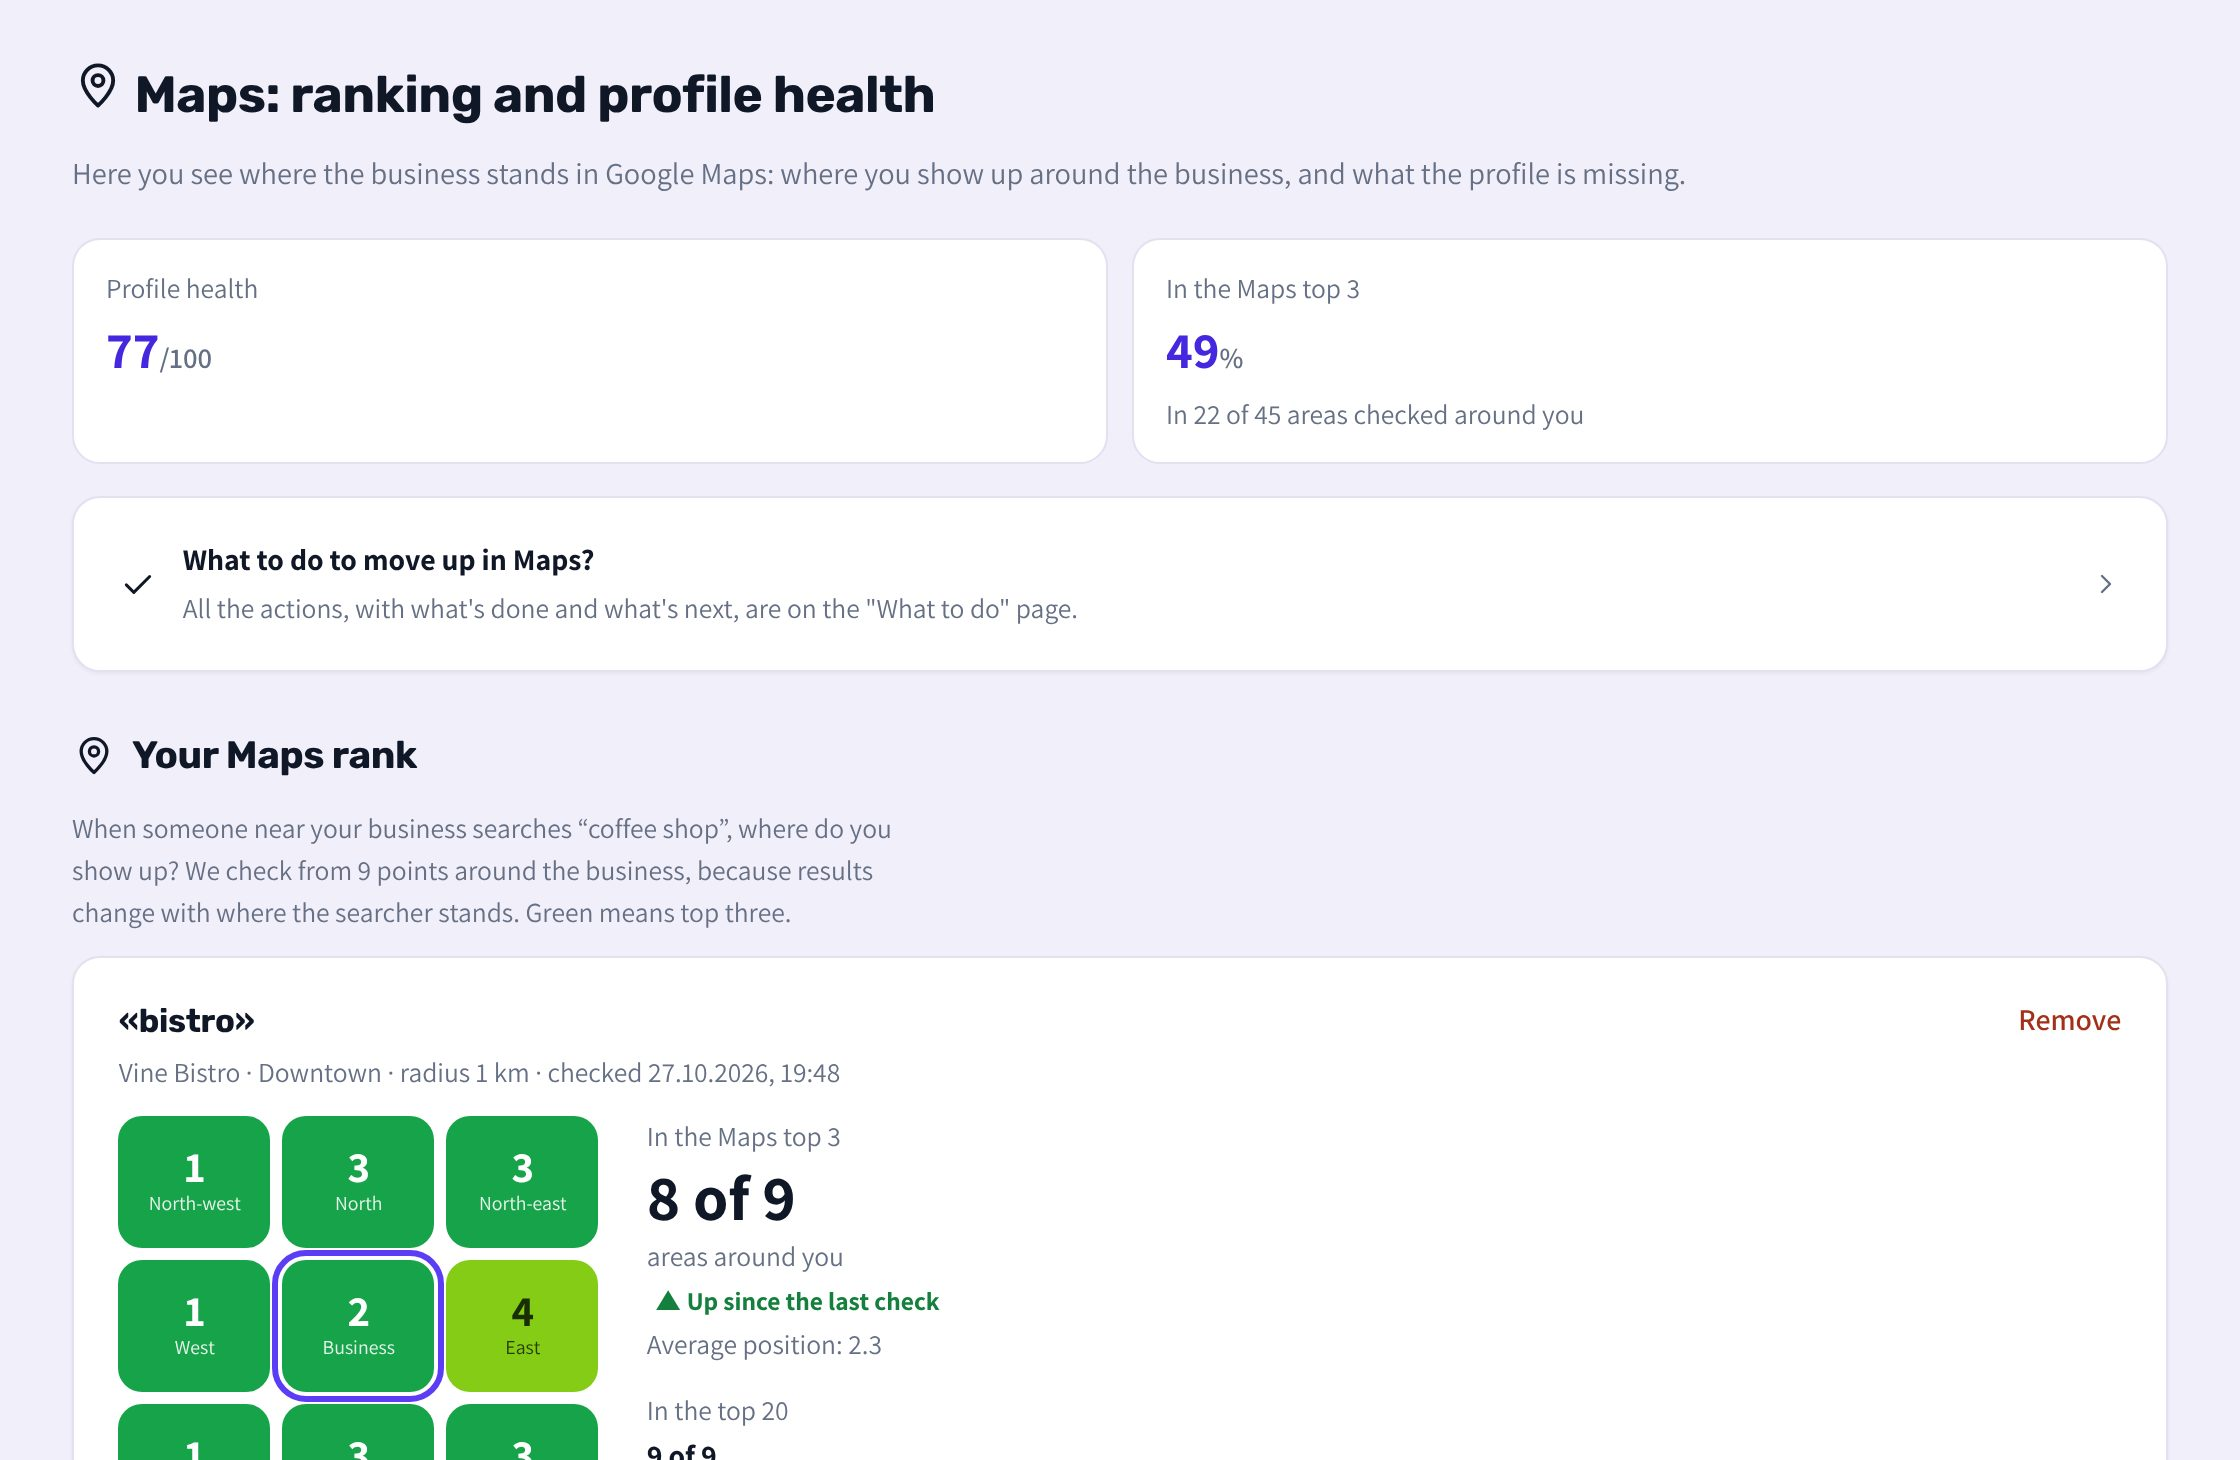
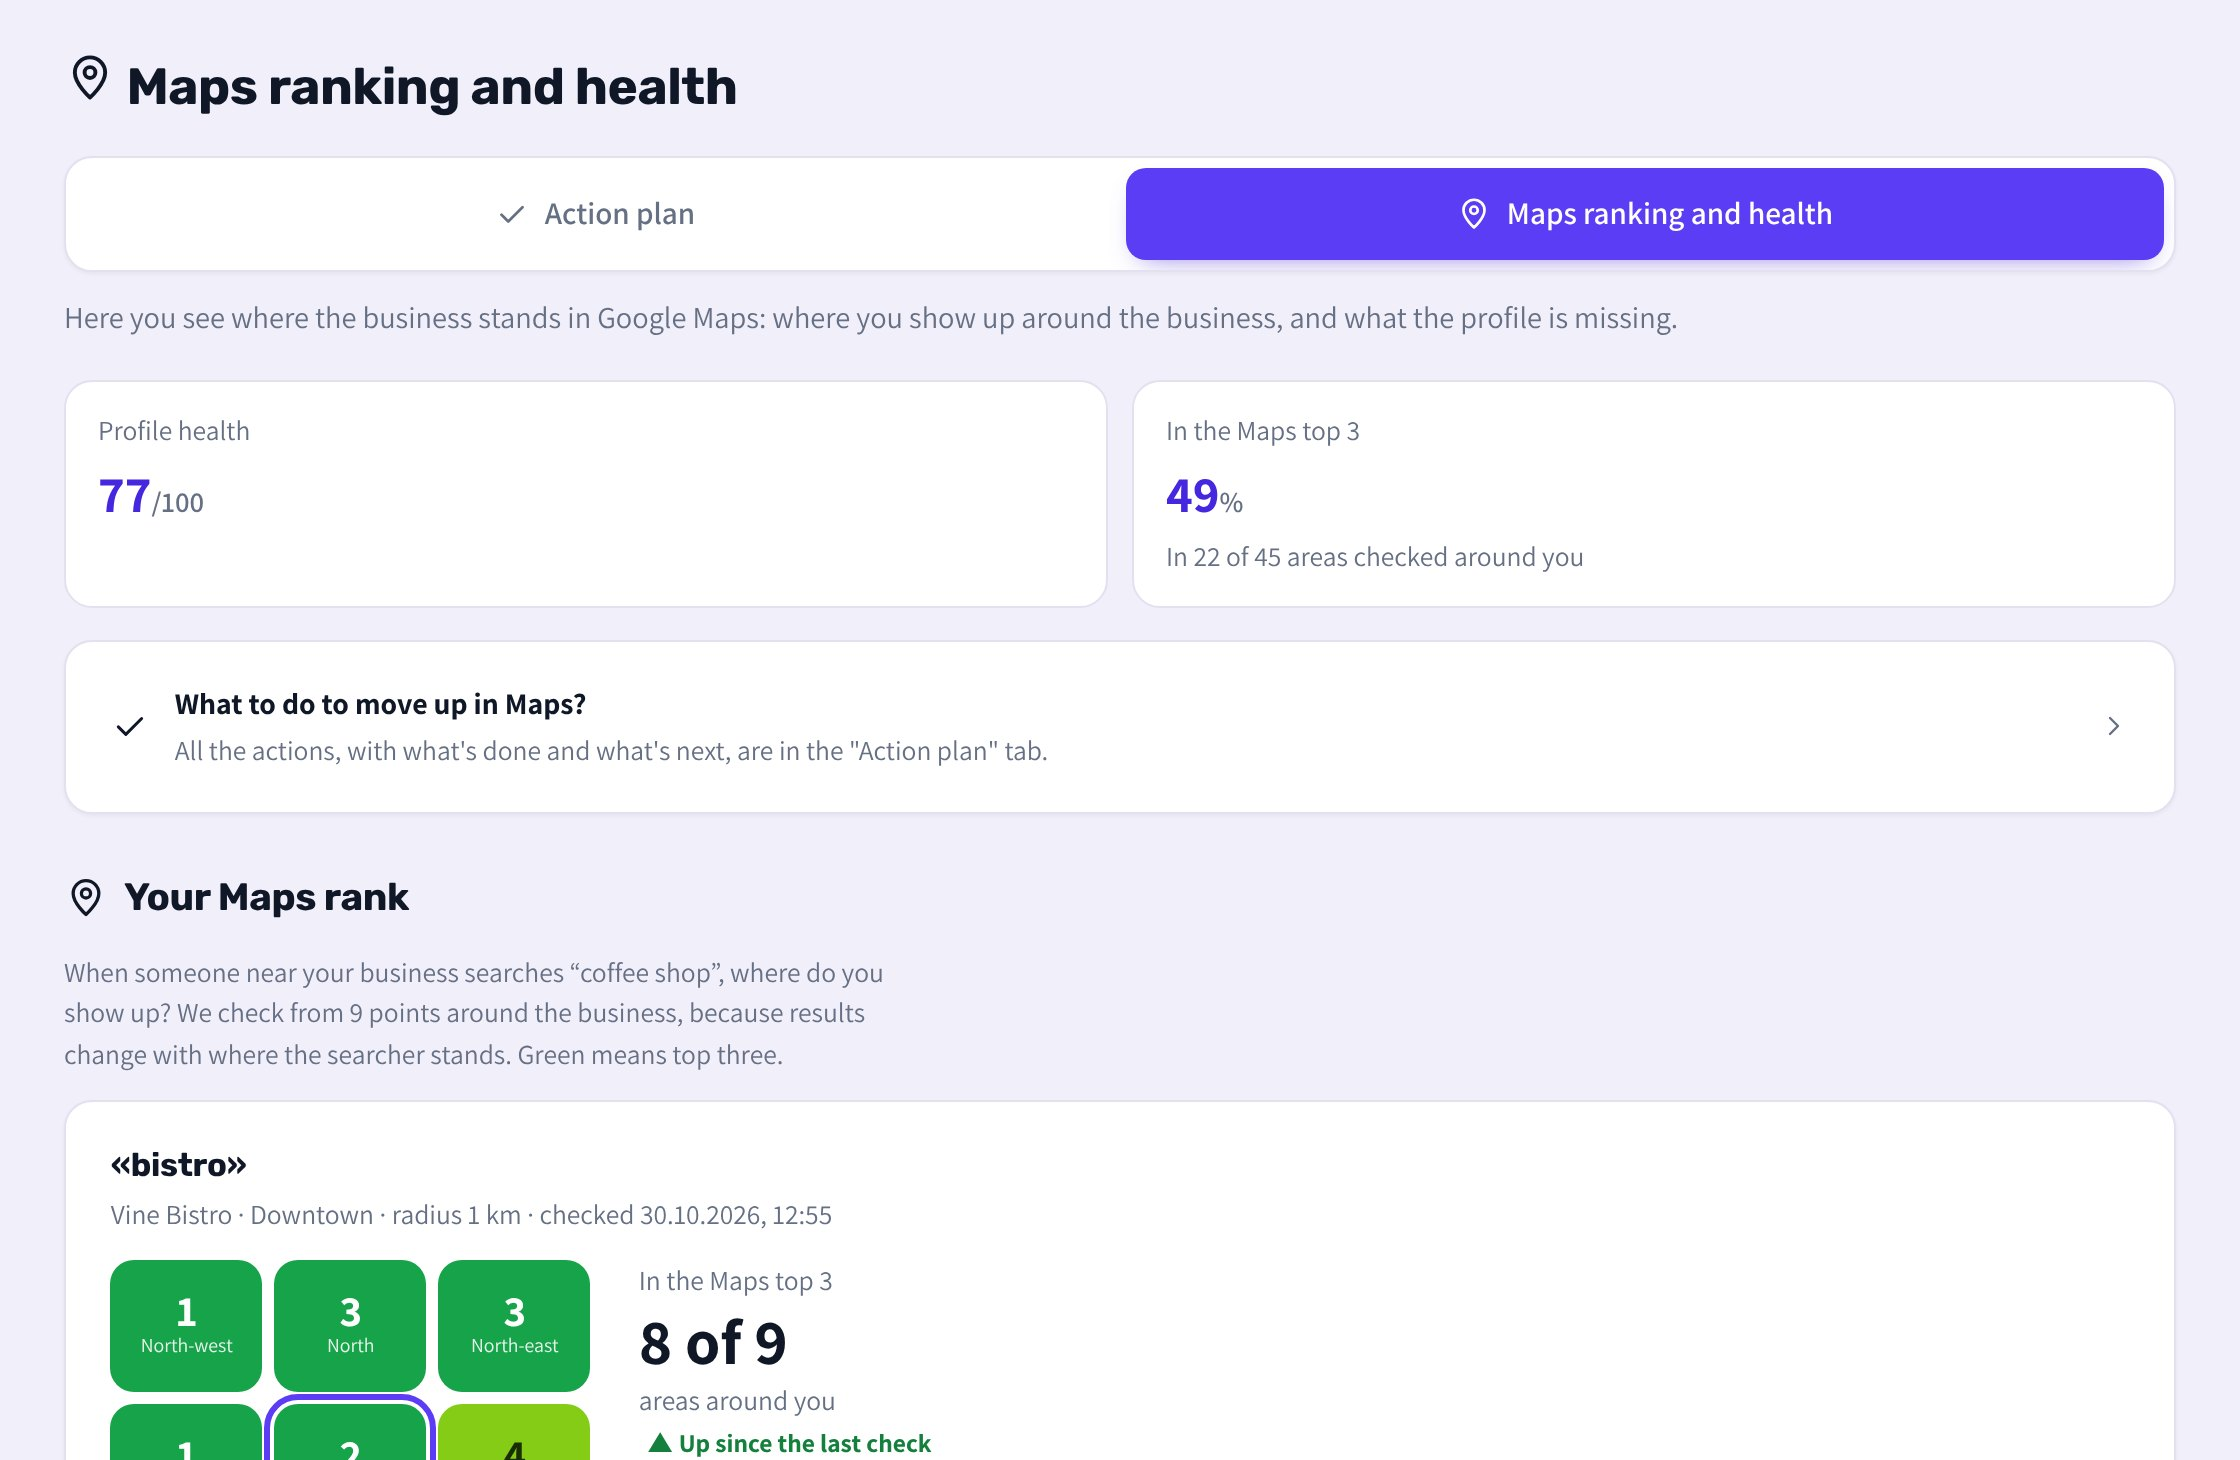
Site and guides follow the latest changes
- New screenshots (Hebrew and English) of the dashboard, the action plan and
  Maps ranking and health, as they look now.
- Screenshot tabs and guide titles use the new names: "קידום בגוגל מפות" and
  "מיקום ובריאות במפות".
- The WhatsApp guide starts from the reviews page and points to the list of
  customers asked; the reviews guide mentions the AI reply style; the
  dashboard guide describes the open charts and the month picker.
- Plans: AI drafts in your style, and the list of everyone asked.
- FAQ: cancelling keeps the plan until the end of the paid period.

Claude-Session: https://claude.ai/code/session_01MDnwDTcb7MFbwhwXH5wSu9

diff --git a/src/guide.js b/src/guide.js
@@ -84,6 +84,7 @@ export const FEATURE_GUIDES = [
       'כל ביקורת חדשה מגיעה ל"ביקורות בגוגל", עם התראה לטלפון. ביקורת של 3 כוכבים ומטה מגיעה גם במייל.',
       'עונים ישר מהרשימה: מתחת לכל ביקורת יש תשובה מוכנה מהתבניות, וכפתור "טיוטה ב-AI" שמנסח תשובה אישית. לוחצים "פרסום בגוגל" והתשובה עולה.',
       'מסננים לפי כוכבים, ביקורות שמחכות לתשובה או שכבר נענו, תקופה, עם או בלי טקסט, ומחפשים מילה ("מחיר", "המתנה").',
+      'ב"הסגנון של טיוטות ה-AI" בוחרים טון (חם, מקצועי, קצר או קליל), חתימה ואם מותר סמיילי, וה-AI כותב כך.',
     ],
   },
   {
@@ -103,12 +104,12 @@ export const FEATURE_GUIDES = [
     slug: 'whatsapp',
     group: 'reputation',
     title: 'שליחה ללקוח בוואטסאפ',
-    summary: 'קישור אישי לסקר, בשתי לחיצות מהדשבורד.',
+    summary: 'קישור אישי לסקר, בשתי לחיצות מעמוד הביקורות.',
     image: 'qr.jpg',
-    link: '/admin/campaigns',
+    link: '/admin/google/reviews',
     points: [
-      'בדשבורד לוחצים "שליחה בוואטסאפ", מקלידים שם וטלפון, והוואטסאפ נפתח עם הודעה מוכנה.',
-      'בעמוד הקמפיין רואים מי פתח את הקישור ומי כבר דירג.',
+      'בעמוד "ביקורות בגוגל" לוחצים "בקשת ביקורת בוואטסאפ", מקלידים שם וטלפון, והוואטסאפ נפתח עם הודעה מוכנה.',
+      'ב"לקוחות שקיבלו בקשה" (תחת "איסוף ביקורות") רואים את כולם: מי פתח את הקישור ומי כבר דירג, ואפשר להוריד לאקסל.',
       'את נוסח ההודעה משנים ב"הגדרות".',
     ],
   },
@@ -141,7 +142,7 @@ export const FEATURE_GUIDES = [
   {
     slug: 'growth',
     group: 'profile',
-    title: 'מה לעשות: תוכנית הקידום',
+    title: 'קידום בגוגל מפות: תוכנית הפעולה',
     summary: 'רשימה אחת: מה דחוף, וכל הפעולות שמקדמות את העסק במפות וב-AI.',
     image: 'growth.jpg',
     link: '/admin/growth',
@@ -155,7 +156,7 @@ export const FEATURE_GUIDES = [
   {
     slug: 'maps',
     group: 'profile',
-    title: 'מפות: מיקום ובריאות הפרופיל',
+    title: 'מיקום ובריאות במפות',
     summary: 'איפה אתם עומדים בגוגל מפות, ומה חסר בפרופיל.',
     image: 'maps.jpg',
     link: '/admin/maps',
@@ -203,7 +204,7 @@ export const FEATURE_GUIDES = [
     points: [
       'למעלה חמישה מספרים: דירוג בגוגל, ביקורות חדשות, מחכים לתשובה, פניות מגוגל, ובטופ 3 במפות. כל אחד עם השינוי מהתקופה הקודמת.',
       '"מה לעשות עכשיו": שלוש פעולות, הדחופות קודם (לענות לביקורות, לחזור ללקוח לא מרוצה), עם ציון הקידום. בשלב 2 גם היעדים מול האזור.',
-      'בתחתית, "כל הנתונים והגרפים" נפתח למי שרוצה לחפור: צפיות, שיחות, בקשות הגעה, החיפושים שבהם מצאו אתכם, וגרפים.',
+      'מתחת: ביקורות ודירוגים לפי יום והתפלגות הכוכבים. ב"עוד נתונים" יש צפיות, שיחות, בקשות הגעה והחיפושים שבהם מצאו אתכם, עם בחירה לפי חודש.',
     ],
   },
   {

diff --git a/src/views/site.js b/src/views/site.js
@@ -224,8 +224,8 @@ const shot = (file) => asset(`media/${isEn() ? 'guide-en' : 'guide'}/${file}`);
 const SCREENS = [
   ['dashboard', 'דשבורד', 'חמשת המספרים שחשובים, ומה לעשות עכשיו: הדחוף קודם, ואחריו הצעד הבא בקידום.'],
   ['reviews', 'ביקורות', 'עונים לכל ביקורת ישר מהרשימה: תשובה מוכנה או טיוטה ב-AI, עם סינון לפי כוכבים, תקופה וחיפוש.'],
-  ['growth', 'מה לעשות', 'כל הפעולות שמקדמות אתכם במפות וב-AI ברשימה אחת, עם ציון התקדמות, AI שכותב את התוכן, ויעדים מול האזור.'],
-  ['maps', 'מפות', 'בריאות הפרופיל ובכמה מהאזורים סביב העסק אתם בטופ 3 במפות.'],
+  ['growth', 'קידום בגוגל מפות', 'כל הפעולות שמקדמות אתכם במפות וב-AI ברשימה אחת, עם ציון התקדמות, AI שכותב את התוכן, ויעדים מול האזור.'],
+  ['maps', 'מיקום ובריאות במפות', 'בריאות הפרופיל ובכמה מהאזורים סביב העסק אתם בטופ 3 במפות.'],
   ['rank', 'מיקום במפות', 'איפה אתם מופיעים בגוגל מפות בכל שכונה, מול המתחרים.'],
   ['ai', 'נראות ב-AI', 'האם ChatGPT, Gemini וגוגל ממליצים עליכם, ומה לעשות כדי שכן.'],
   ['report', 'דוח חודשי', 'דוח מסודר בכל חודש, להדפסה או לשליחה.'],
@@ -276,7 +276,7 @@ export function landingView({ signupOpen, trialOpen = false, contactSent = false
       `הסניף הראשון במחיר המסלול, וכל סניף נוסף ב-20% הנחה: ₪${branchPrice(PLANS.basic)} לחודש במסלול "${PLANS.basic.label}" ו-₪${branchPrice(PLANS.pro)} במסלול "${PLANS.pro.label}", כולל מע״מ. כל סניף מקבל את כל הפיצ'רים: ביקורות, צפיות ושיחות, מיקום במפות ונראות ב-AI. כל הסניפים מנוהלים מחשבון אחד, ${payProvider() === 'cardcom' ? 'וסניף שמוסיפים באמצע החודש מחויב רק מהחידוש הבא.' : 'וסניף שמוסיפים לחשבון בתשלום נפתח מיד אחרי התשלום עליו.'}`,
     ],
     ['אפשר להשתמש במערכת באנגלית?', 'כן. המערכת, המיילים וטיוטות ה-AI זמינים בעברית ובאנגלית, ומחליפים שפה בכל רגע בעמוד "החשבון שלי". הסקר ללקוחות זמין בעברית, ערבית, אנגלית ורוסית.'],
-    ['אפשר לבטל?', 'כן, בכל רגע. במסלול חודשי אין התחייבות, ובמסלול שנתי משלמים מראש על 10 חודשים ומקבלים 12.'],  ];
+    ['אפשר לבטל?', 'כן, בכל רגע, מעמוד "התוכנית שלי". המסלול נשאר פעיל עד סוף התקופה ששולמה, ואחרי זה לא תחויבו יותר. במסלול חודשי אין התחייבות, ובמסלול שנתי משלמים מראש על 10 חודשים ומקבלים 12.'],  ];
   const start = trialOpen ? `${TRIAL_DAYS} ימים חינם` : 'להתחיל עכשיו';
   const trial = signupOpen ? `<a class="btn lp-cta" href="/register">${start}</a>` : '<a class="btn lp-cta" href="/login">כניסה</a>';
 

diff --git a/src/views/pricing.js b/src/views/pricing.js
@@ -9,11 +9,11 @@ const waOn = () => Boolean(process.env.WHATSAPP_TOKEN && process.env.WHATSAPP_PH
 // Every plan includes these; what changes is AI visibility beyond Google.
 const INCLUDED = [
   'דשבורד גוגל מיי ביזנס: ביקורות, צפיות, שיחות, הגעה ומה חיפשו',
-  'התראה על כל ביקורת, ותשובה ישר מהרשימה עם טיוטת AI',
+  'התראה על כל ביקורת, ותשובה ישר מהרשימה עם טיוטת AI בסגנון שלכם',
   'קידום במפות: תוכנית שבועית ובריאות הפרופיל',
   'מיקום בגוגל מפות והשוואה למתחרים',
   'נראות בתשובות ה-AI של גוגל',
-  'QR, סקרים ובקשות דירוג בוואטסאפ',
+  'QR, סקרים ובקשות דירוג בוואטסאפ, עם רשימת כל מי שקיבל בקשה',
   'התראה כשמשהו יורד, ודוח חודשי',
   'משתמשים, קמפיינים ודירוגים ללא הגבלה',
   // The website widget is off the menu, so it's not offered either.
